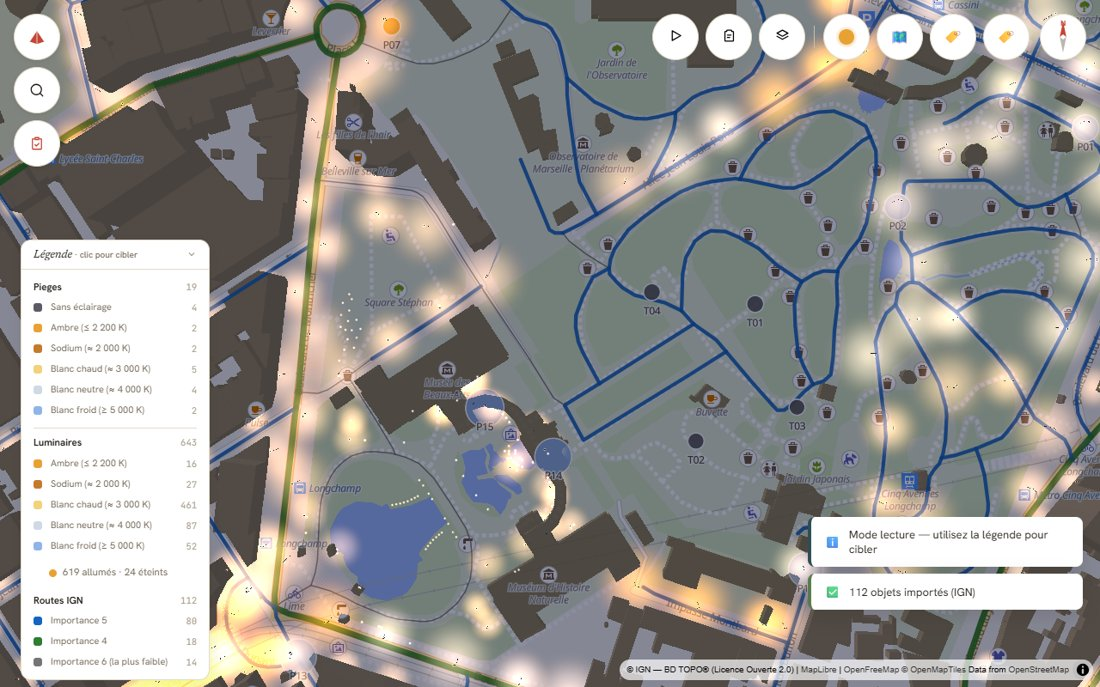
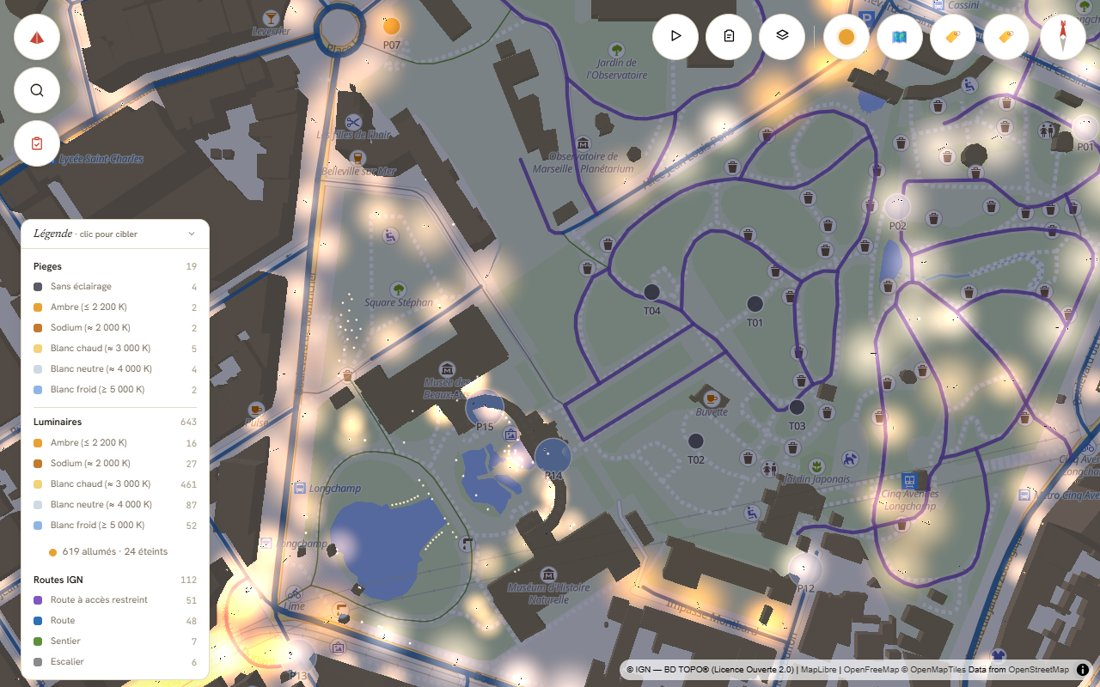
docs(atlas): types de voie et trafic dans la doc, le journal 1.16.1 et la vitrine

diff --git a/published/w/atlas/index.html b/published/w/atlas/index.html
@@ -224,15 +224,15 @@ section { margin: 0 0 3rem; }
       <div class="dit">
         <p class="role">Charger</p>
         <h3>Les routes, bâtiments et eau de l’IGN, dans la zone visible</h3>
-        <p>Le bouton IGN du panneau Couches importe, dans la zone que l’on regarde, les données de la BD TOPO et d’Admin Express : routes, bâtiments, cours d’eau, plans d’eau, végétation, voies ferrées, repères routiers, équipements, communes, départements. Atlas compte d’abord les objets (« 112 objets, durée attendue : environ 1 s »), refuse une zone trop vaste plutôt que de bloquer la carte, importe page par page avec une barre d’avancement, et laisse annuler puis reprendre là où l’import s’était arrêté. La couche arrive avec un style lisible (les routes colorées par importance, les bâtiments extrudés par leur hauteur), sa provenance, sa licence et la mention de source sur la carte.</p>
-        <p class="pourquoi">Les routes importées portent leur sens de circulation et leur nombre de voies : un itinéraire tracé dessus évite les sens uniques, sans rien saisir à la main.</p>
-        <p class="exemple"><b>Dans l’exemple</b> les 112 tronçons de routes autour du Palais Longchamp, importés en une seconde, avec leur sens de circulation.</p>
-        <ul class="utilise"><li>Import IGN</li><li>Estimation avant import</li><li>Annuler et reprendre</li><li>Provenance et licence</li><li>Sens de circulation</li></ul>
+        <p>Le bouton IGN du panneau Couches importe, dans la zone que l’on regarde, les données de la BD TOPO et d’Admin Express : routes, bâtiments, cours d’eau, plans d’eau, végétation, voies ferrées, repères routiers, équipements, communes, départements. Atlas compte d’abord les objets (« 112 objets, durée attendue : environ 1 s »), refuse une zone trop vaste plutôt que de bloquer la carte, importe page par page avec une barre d’avancement, et laisse annuler puis reprendre là où l’import s’était arrêté. La couche arrive avec un style lisible (les routes colorées par type de voie — route, route à accès restreint, chemin, sentier, escalier, piste cyclable —, les bâtiments extrudés par leur hauteur), sa provenance, sa licence et la mention de source sur la carte.</p>
+        <p class="pourquoi">Les routes importées portent leur sens de circulation, leur nombre de voies et leur type de voie : une allée de parc ne se confond pas avec une rue, et un itinéraire tracé dessus évite les sens uniques, sans rien saisir à la main.</p>
+        <p class="exemple"><b>Dans l’exemple</b> les routes de la BD TOPO autour du Palais Longchamp : 48 tronçons de rue, 51 allées du parc à accès restreint, 7 sentiers, 6 escaliers, chacun sa couleur.</p>
+        <ul class="utilise"><li>Import IGN</li><li>Type de voie</li><li>Estimation avant import</li><li>Annuler et reprendre</li><li>Provenance et licence</li><li>Sens de circulation</li></ul>
       </div>
       <div class="montre">
         <figure class="large">
-          <img src="cas-ign.jpg" alt="Les routes de la BD TOPO autour du Palais Longchamp, importées dans la zone visible et colorées par importance ; la mention de source figure en bas à droite." loading="lazy">
-          <figcaption>Les routes de la BD TOPO autour du Palais Longchamp, importées dans la zone visible et colorées par importance ; la mention de source figure en bas à droite.</figcaption>
+          <img src="cas-ign.jpg" alt="Les routes de la BD TOPO autour du Palais Longchamp, par type de voie : les rues en bleu, les allées du parc à accès restreint en violet, les sentiers en vert, les escaliers en gris ; la mention de source figure en bas à droite." loading="lazy">
+          <figcaption>Les routes de la BD TOPO autour du Palais Longchamp, par type de voie : les rues en bleu, les allées du parc à accès restreint en violet, les sentiers en vert, les escaliers en gris ; la mention de source figure en bas à droite.</figcaption>
         </figure>
       </div>
     </article>
@@ -312,15 +312,15 @@ section { margin: 0 0 3rem; }
       <div class="dit">
         <p class="role">Représenter</p>
         <h3>Du trafic sur vos routes, pour une maquette vivante</h3>
-        <p>Une fois les routes importées — celles de l’IGN avec leur sens de circulation et leur nombre de voies, ou celles d’OpenStreetMap —, l’entrée « Animer le trafic (simulé) » de la palette fait rouler des véhicules dessus : des voitures et des poids lourds qui respectent les sens uniques, se rangent sur la bonne voie avant un virage, font la queue aux carrefours et cèdent le passage à l’anneau d’un giratoire. La densité se règle (véhicules par km), la même simulation se rejoue à l’identique, et un clic l’arrête.</p>
+        <p>Une fois les routes importées — celles de l’IGN avec leur sens de circulation, leur nombre de voies et leur type de voie, ou celles d’OpenStreetMap —, « Animer le trafic » (dans « Vue &amp; rendu », ou par la palette) fait rouler des véhicules dessus : des voitures et des poids lourds qui respectent les sens uniques, se rangent sur la bonne voie avant un virage, font la queue aux carrefours et cèdent le passage à l’anneau d’un giratoire. Seules les routes ouvertes à la circulation roulent : les allées d’un parc, les chemins, les sentiers, les escaliers et les pistes cyclables restent vides, et Atlas dit ce qu’il a écarté. On règle la couche, la densité (véhicules par km) et l’accès restreint ; la même simulation se rejoue à l’identique, et un clic l’arrête.</p>
         <p class="pourquoi">Une maquette qui bouge se lit mieux qu’une maquette figée, sans refaire une simulation dans un autre outil. Atlas dit qu’elle est simulée : la densité, les destinations et les feux sont des hypothèses, jamais une mesure du trafic réel.</p>
-        <p class="exemple"><b>Dans l’exemple</b> les routes de la BD TOPO autour du Palais Longchamp : 115 tronçons, 66 carrefours, 2 giratoires, une cinquantaine de véhicules en temps réel.</p>
-        <ul class="utilise"><li>Trafic simulé</li><li>Sens uniques</li><li>Voies par sens</li><li>Giratoires</li><li>Routes IGN ou OSM</li></ul>
+        <p class="exemple"><b>Dans l’exemple</b> les routes de la BD TOPO autour du Palais Longchamp : 48 tronçons de rue roulés, 64 écartés (50 allées à accès restreint, 7 sentiers, 6 escaliers), une quarantaine de véhicules en temps réel.</p>
+        <ul class="utilise"><li>Trafic simulé</li><li>Type de voie</li><li>Sens uniques</li><li>Voies par sens</li><li>Giratoires</li><li>Routes IGN ou OSM</li></ul>
       </div>
       <div class="montre">
         <figure class="large">
-          <img src="cas-trafic.jpg" alt="Des véhicules (bleu : voitures, orange : poids lourds) sur les routes importées de l’IGN autour du Palais Longchamp. Trafic simulé." loading="lazy">
-          <figcaption>Des véhicules (bleu : voitures, orange : poids lourds) sur les routes importées de l’IGN autour du Palais Longchamp. Trafic simulé.</figcaption>
+          <img src="cas-trafic.jpg" alt="Des véhicules (blanc : voitures, orange : poids lourds) sur les rues importées de l’IGN autour du Palais Longchamp ; les allées du parc, à droite, restent vides. Trafic simulé." loading="lazy">
+          <figcaption>Des véhicules (blanc : voitures, orange : poids lourds) sur les rues importées de l’IGN autour du Palais Longchamp ; les allées du parc, à droite, restent vides. Trafic simulé.</figcaption>
         </figure>
       </div>
     </article>
@@ -647,6 +647,7 @@ section { margin: 0 0 3rem; }
   <section>
     <h2>Journal</h2>
     <div class="journal">
+      <div><b>v1.16.1</b><p>Les routes importées de l’IGN se distinguent par type de voie : routes, routes à accès restreint (allées d’un parc, voies privées), chemins, sentiers, escaliers, pistes cyclables, voies ferrées — une couleur chacun dans la légende, au lieu d’un seul bleu pour tout. Le trafic simulé ne roule plus que sur les routes ouvertes à la circulation : les allées de parc, les sentiers, les escaliers et les pistes cyclables restent vides, et Atlas dit ce qu’il a écarté. Il se règle (couche, densité, routes à accès restreint) et s’anime dans « Vue &amp; rendu ».</p></div>
       <div><b>v1.16.0</b><p>Les routes importées de l’IGN ou d’OpenStreetMap peuvent s’animer : une entrée de la palette, « Animer le trafic (simulé) », fait rouler des voitures et des poids lourds qui suivent les sens uniques, s’arrêtent dans les files et passent les carrefours et les giratoires. C’est une maquette de trafic, pas une mesure : la densité, les destinations et les feux sont des hypothèses, et Atlas le dit.</p></div>
       <div><b>v1.15.0</b><p>Un bouton IGN, à côté d’OSM dans le panneau Couches, importe les données de l’IGN de la zone visible : routes (avec leur sens de circulation et leur nombre de voies), bâtiments extrudés par leur hauteur, cours d’eau, plans d’eau, végétation, voies ferrées, repères routiers, équipements, communes et départements. L’import annonce d’abord combien d’objets il va lire, avance page par page, s’annule et se reprend là où il s’était arrêté ; la couche arrive avec sa provenance, sa licence et la mention de source sur la carte. Les routes importées servent tout de suite aux itinéraires qui respectent les sens uniques.</p></div>
       <div><b>v1.14.2</b><p>Les routes importées d’OpenStreetMap portent leurs sens uniques : un itinéraire tracé dessus ne remonte plus une rue à sens unique, ni un rond-point à contresens (le sens de la BD TOPO de l’IGN passe avant celui d’OpenStreetMap quand les deux existent). Pour les applications qui affichent la carte : la sortie du pointeur est annoncée, « automatique » rend la main à la détection du réseau au lieu de garder un hors ligne forcé, et la mention de source donnée par l’application s’affiche en bas de la carte.</p></div>

diff --git a/projects/Atlas/docs/TRAFIC.md b/projects/Atlas/docs/TRAFIC.md
@@ -7,14 +7,16 @@ Atlas peut faire rouler des véhicules sur les routes d'une couche : une maquett
 ## Utilisation
 
 1. Importer des routes : bouton **IGN** du panneau Couches (jeu « Routes », BD TOPO) ou import **OSM** (« Voirie »), ou toute couche de lignes qui porte ces attributs.
-2. Palette de commandes (`Ctrl/⌘ K`) : **Animer le trafic (simulé) sur « <couche> »**. La même entrée devient **Arrêter le trafic simulé**.
-3. Par l'API : `A.traficDemarrer(layerId?, { densite, vitesse, graine })`, `A.traficArreter()`, `A.traficEtat()`.
+2. Module **Vue & rendu**, section **Trafic simulé** : la couche de routes, la **densité** (véhicules par km), les **routes à accès restreint** (désactivé par défaut), puis **▶ Animer le trafic** ; le bouton devient **■ Arrêter le trafic**, et la section dit combien de véhicules roulent sur combien de tronçons, et ce qui a été écarté.
+3. Palette de commandes (`Ctrl/⌘ K`) : **Animer le trafic (simulé) sur « <couche> »** (aussi en lecture, où le module n'est pas ouvert), puis **Arrêter le trafic simulé**.
+4. Par l'API : `A.traficDemarrer(layerId?, { densite, vitesse, graine, acces })`, `A.traficBasculer()`, `A.traficReglage(cle, valeur)`, `A.traficArreter()`, `A.traficEtat()`.
 
 | Réglage | Sens | Défaut |
 |---|---|---|
 | `densite` | véhicules par km de route | 8 (de 10 à 600 véhicules au total) |
 | `vitesse` | pas du moteur par image ; 1 = temps réel | 1 (1 à 8) |
 | `graine` | l'état de départ ; la même graine redonne la même simulation | 1 |
+| `acces` | `libre` : routes ouvertes à la circulation ; `tous` : y ajoute les routes à accès restreint (voies privées, desserte) | `libre` |
 
 Sans identifiant de couche, Atlas prend la première couche de lignes visible qui ressemble à des routes (`sens_de_circulation` ou `highway`). Un message dit « Trafic simulé … ; débits, destinations et feux sont des hypothèses ». Le chargement est **à la demande** (`lib/trafic-couche.js`, puis `lib/trafic/`) : sans trafic demandé, rien n'est téléchargé.
 
@@ -23,7 +25,8 @@ Sans identifiant de couche, Atlas prend la première couche de lignes visible qu
 | | |
 |---|---|
 | **Lu dans les données** | la géométrie des routes ; le sens (`sens_de_circulation` de la BD TOPO, sinon `oneway`, `junction=roundabout`, `highway=motorway` d'OpenStreetMap) ; le nombre de voies (`nombre_de_voies`, BD TOPO) ; l'importance (BD TOPO, sinon la classe OSM : motorway 1, primary 2, secondary 3, tertiary 4, residential et unclassified 5, service et living_street 6) ; l'état et l'accès (`Projet`, `Physiquement impossible` écartés) |
-| **Écarté** | sentiers, escaliers, pistes cyclables, `footway`, `path`, `cycleway`, `steps`, `pedestrian`, `track`, `construction` |
+| **Distingué, puis écarté** | ce qui n'est pas une **route ouverte à la circulation** (`lib/modes-voie.js`) : les **chemins** et les **sentiers**, les **escaliers**, les **pistes cyclables**, les **voies ferrées**, les routes **à accès restreint** (allée d'un parc, voie privée, desserte réservée aux ayants droit : BD TOPO `acces_vehicule_leger`, OSM `access`, `motor_vehicle`, `vehicle`), les routes **physiquement impossibles** et les tronçons **en projet**. Chaque écart a son motif, dit dans la section « Trafic simulé » (« 64 tronçons écartés : 50 à accès restreint, 7 sentiers, 6 escaliers, 1 à accès impossible ») |
+| **Pris pour une route** | une couche dont aucun tronçon ne dit ce qu'il est (ni `nature`, ni `highway`) : des lignes tracées à la main ; dès qu'un tronçon se déclare, ceux qui ne le font pas sont écartés (« non classés ») |
 | **Supposé** | **une densité** de véhicules par km, la même partout ; les destinations, tirées au hasard ; **aucun feu** (la BD TOPO n'en porte pas : la couche ne les active pas, même si le moteur sait en simuler à titre d'hypothèse) ; 10 % de poids lourds |
 
 Le réseau lu est celui de la couche **entière, filtres de la couche compris** (pas seulement ce qui est visible à l'écran), et le moteur ne fait rouler les véhicules que sur la **plus grande partie connexe** : des routes coupées par l'emprise d'un import, isolées du reste, restent vides.
@@ -56,7 +59,13 @@ Aucun saut de position, état reproductible à graine égale. Coût du moteur : 
 - **Écart de capacité** : le retard d'un giratoire reste 2 à 4 fois celui d'un modèle de capacité de référence ; le giratoire à 6 branches se dégrade vite (retard moyen 16,6 s à 300 véh/h par entrée).
 - **Contacts résiduels** à forte densité (143 sur 20 véh/km pour le réseau de 34 km) : le moteur n'est pas un outil de dimensionnement.
 - **Un seul trafic à la fois**, sur le fil principal (non vérifié au-delà de 600 véhicules ni sur plusieurs dizaines de km), sans piétons, cyclistes, transports en commun ni stationnement.
-- Les véhicules sont dessinés comme des points (bleu : voiture, orange : poids lourd) ; le cap est calculé mais pas encore dessiné.
+- Les véhicules sont dessinés comme des points (blanc : voiture, orange : poids lourd) ; le cap est calculé mais pas encore dessiné.
+
+## Distinguer les routes, les chemins, les pistes cyclables, les voies ferrées
+
+`lib/modes-voie.js` donne à chaque tronçon un **mode** (route, chemin, sentier, escalier, piste cyclable, voie ferrée) et un **accès** pour un véhicule léger, d'après la BD TOPO (`nature`, `acces_vehicule_leger`) ou OpenStreetMap (`highway`, `railway`, `access`, `motor_vehicle`, `vehicle`). L'import de l'IGN en tire l'attribut **`type_de_voie`** (route, route à accès restreint, chemin, sentier, escalier, piste cyclable, voie ferrée), une couleur chacun dans la légende ; le trafic routier ne prend que les routes ouvertes.
+
+**Pour d'autres véhicules plus tard (trains, vélos, piétons)** : le mode `ferre` est reconnu dès maintenant (BD TOPO : LGV, voie ferrée principale, tramway, métro ; OSM : `railway=*`) et jamais confié au trafic routier. Un autre moteur lirait **son** mode et ses propres règles : sur les voies ferrées, des cantons et une signalisation à la place des carrefours et des priorités ; pour les vélos et les piétons, les pistes cyclables, les sentiers et les escaliers. Le moteur actuel est paramétré par classes de véhicules (`vl`, `pl`) et par règles d'accès : il en est le point de départ, pas la fin. Rien de ferroviaire n'est construit.
 
 ## Le réseau orienté : ce qui est branché, ce qui reste pertinent
 
@@ -64,7 +73,8 @@ Aucun saut de position, état reproductible à graine égale. Coût du moteur : 
 |---|---|---|---|
 | Client WFS de la BD TOPO | `lib/reseau/wfs-bdtopo.js` | **branché** (import IGN) | en service |
 | Sens uniques BD TOPO et OSM, plus court chemin orienté | `lib/itineraire.js` | **branché** (« Tracer sur un réseau », case « Respecter les sens de circulation ») | en service |
-| Trafic sur les routes d'une couche | `lib/trafic-couche.js`, `lib/trafic/` | **branché** (palette, `A.traficDemarrer`) | en service |
+| Distinction route / chemin / piste cyclable / voie ferrée | `lib/modes-voie.js` | **branché** (import IGN, trafic) | en service |
+| Trafic sur les routes d'une couche | `lib/trafic-couche.js`, `lib/trafic/` | **branché** (« Vue & rendu », palette, `A.traficDemarrer`) | en service |
 | Graphe BD TOPO exact (extrémités à 1e-7 degré, attributs) | `lib/reseau/graphe-routier.js` | non branché | **à garder** : base de la suite (T2), plus stricte que le réseau d'itinéraire |
 | Calage d'une trace sur le réseau, plus court chemin | `lib/reseau/calage.js` | non branché | **pertinent** pour caler une trace GPS de terrain sur les routes ; à brancher quand une trace est importée |
 | Repères routiers (PR) : localiser, trouver le plus proche | `lib/reseau/reperes.js` | non branché | **pertinent** pour l'inventaire de voirie ; à brancher avec un usage terrain |
@@ -79,7 +89,9 @@ Les modules non branchés sont publiés avec le reste de `lib/reseau/` mais jama
 |---|---|---|
 | T0 | le moteur dans Atlas, versionné, avec ses 36 tests | **fait** (`lib/trafic/`, `tests/trafic-*.test.js`) |
 | T1 | un trafic ambiant sur les routes d'une couche, à la demande | **fait** (`lib/trafic-couche.js`) |
+| — | distinguer les types de voie et ne rouler que sur les routes ouvertes ; section de réglage dans « Vue & rendu » | **fait** (1.16.1) |
 | T2 | véhicules orientés (cap dessiné) et en 3D à partir du catalogue d'objets ; calcul dans un worker | à faire |
+| T5 | d'autres modes : trains (cantons, signalisation), vélos, piétons | à décider |
 | T3 | feux : un plan par carrefour désigné, **déclaré comme hypothèse** à l'écran | à faire |
 | T4 | règles de circulation (arrêtés) et « et si », après calibrage sur des mesures | à décider |
 

diff --git a/projects/Atlas/CLAUDE.md b/projects/Atlas/CLAUDE.md
@@ -34,7 +34,7 @@ Familles de `lib/` (état du 02/10/2026) :
 | Éclairage et soleil | `eclairage-profil`, `eclairage-rendu`, `luminaires-three`, `facades-eclairees`, `nuit-rendu`, `qualite-eclairage`, `soleil`, `arc-solaire`, `horloge-scene` |
 | Hôte, interface, import | `hote`, `hote-ui`, `habillage-carte`, `feuille-mobile`, `edge-scroll`, `layer-order`, `ouvrir-fichier`, `osm-requete`, `vue-import`, `sources-import`, `import-lots`, `import-ign`, `import-ign-session`, `import-ign-couche`, `vue-import-ign`, `provenance-couche`, `basemap-layers`, `decouverte`, `graine`, `html` |
 | Composant carte BI (sous-dossier `lib/bi/`) | `acces-carte` (point d'accès à la carte, dans `lib/`) ; dans `lib/bi/` : `bi-runtime`, `pont`, `liaison`, `montage`, `client`, `atlas-bi-element`, `agregats`, `echelles`, `legende`, `lecture-temps`, `fond`, `fond-plan`, `clavier`, `clavier-runtime`, `repli`, `icones-etats`, `admin*`, `choroplethe`, `donnees/` |
-| Itinéraire et réseau | `itineraire`, `cap-position`, `tournee` (tracé sur un réseau, sens uniques BD TOPO et OSM, plus court chemin, cap du point bleu, tournée d'un contexte) ; dans `lib/reseau/` (bibliothèques BD TOPO, pures, seul `wfs-bdtopo` est branché, à l'import IGN) : `wfs-bdtopo`, `graphe-routier`, `calage`, `confiance`, `confiance-modele`, `filiation`, `reperes`, `geo`, `itineraire-geoplateforme`, `mesures-trace` |
+| Itinéraire et réseau | `modes-voie` (distingue route, chemin, sentier, escalier, piste cyclable et voie ferrée, et l'accès d'un véhicule : le trafic, l'import IGN et la suite en dépendent), `itineraire`, `cap-position`, `tournee` (tracé sur un réseau, sens uniques BD TOPO et OSM, plus court chemin, cap du point bleu, tournée d'un contexte) ; dans `lib/reseau/` (bibliothèques BD TOPO, pures, seul `wfs-bdtopo` est branché, à l'import IGN) : `wfs-bdtopo`, `graphe-routier`, `calage`, `confiance`, `confiance-modele`, `filiation`, `reperes`, `geo`, `itineraire-geoplateforme`, `mesures-trace` |
 | Trafic simulé (sous-dossier `lib/trafic/`) | `trafic-couche` (le trafic sur les routes d'une couche : adaptation des tronçons, comptes, dessin des véhicules ; chargé à la demande par `A.traficDemarrer`) ; dans `lib/trafic/` : `index` (le moteur sous un seul nom), `trafic` (véhicules, files, priorités, voies), `carrefour` (nœuds et conflits), `reseau` (tronçons vers carrefours), `feux` (feux hypothétiques, non utilisés par la couche) ; voir `docs/TRAFIC.md` |
 | Charte graphique (sous-dossier `lib/charte/`) | `schema`, `couleurs`, `defauts`, `derivation`, `heritage`, `registre`, `resolution`, `verification`, `compat` |
 | Composant BI, compléments (sous-dossier `lib/bi/`) | `client-hote`, `style-polygone`, `theme-charte`, `voile`, `admin`, `admin-runtime`, `admin-sources`, `admin-referentiel` (`client-hote` est GÉNÉRÉ par `tools/generer-client-hote.mjs` : ne pas l'éditer) |

diff --git a/projects/Atlas/CHANGELOG.md b/projects/Atlas/CHANGELOG.md
@@ -13,6 +13,12 @@ Adresse publique : `https://nic01asfr.github.io/Widgets-Grist/atlas/` (elle suit
 
 Une nouvelle empreinte du client s'accompagne d'une nouvelle `VERSION_CLIENT`, annoncée sur le fil des hôtes **avant** publication.
 
+## 1.16.1 — distinguer les routes, les chemins, les pistes cyclables
+
+- **Ajouté** : `lib/modes-voie.js` distingue route, route à accès restreint, chemin, sentier, escalier, piste cyclable et voie ferrée (BD TOPO et OpenStreetMap). L'import des routes de l'IGN porte un attribut dérivé **`type_de_voie`** et colore par type de voie (au lieu de l'importance, qui reste la largeur).
+- **Trafic** : ne roule plus que sur les routes ouvertes à la circulation (allées de parc, chemins, sentiers, escaliers, pistes cyclables, voies ferrées, accès restreint ou impossible, projets sont écartés, chacun pour son motif, dit à l'écran) ; l'option `acces: 'tous'` rend les routes à accès restreint. Section **Trafic simulé** du module « Vue & rendu » (couche, densité, accès restreint, animer ou arrêter) ; véhicules dessinés en blanc (voitures) et orange (poids lourds).
+- **Composant BI** : inchangé (contrat 0.3, même client).
+
 ## 1.16.0 — un trafic simulé sur les routes d'une couche
 
 - **Ajouté** : `A.traficDemarrer(layerId?, { densite, vitesse, graine })`, `A.traficArreter()`, `A.traficEtat()` et l'entrée de palette « Animer le trafic (simulé) ». Des véhicules roulent sur les routes d'une couche de lignes (BD TOPO importée, routes OSM) : sens uniques, voies par sens, carrefours, giratoires, files. **Simulation, pas mesure** : densité, destinations et feux sont des hypothèses. Documentation : `docs/TRAFIC.md`.

diff --git a/projects/Atlas/docs/IMPORT-IGN.md b/projects/Atlas/docs/IMPORT-IGN.md
@@ -39,7 +39,7 @@ Chaque couche et chaque attribut ont été relevés par requête réelle le 10/1
 
 | Jeu | Couche du service | Forme | Attributs principaux | Style par défaut |
 |---|---|---|---|---|
-| Routes | `BDTOPO_V3:troncon_de_route` | ligne | `importance`, `nature`, `sens_de_circulation`, `nombre_de_voies`, `largeur_de_chaussee`, noms, `cpx_numero` | couleur par importance (6 classes), largeur graduée (inversée) |
+| Routes | `BDTOPO_V3:troncon_de_route` | ligne | `importance`, `nature`, `sens_de_circulation`, `nombre_de_voies`, `largeur_de_chaussee`, noms, `cpx_numero`, et **`type_de_voie`** (dérivé) | couleur par **type de voie** (route, route à accès restreint, chemin, sentier, escalier, piste cyclable, voie ferrée, autre), largeur graduée par importance (inversée) |
 | Bâtiments | `BDTOPO_V3:batiment` | surface | `hauteur`, `nombre_d_etages`, `usage_1`, `materiaux_*`, `identifiants_rnb` | volumes extrudés par `hauteur` |
 | Cours d'eau | `BDTOPO_V3:cours_d_eau` | ligne | `toponyme`, `importance`, `code_hydrographique` | bleu, nom en étiquette |
 | Plans d'eau | `BDTOPO_V3:plan_d_eau` | surface | `nature`, `toponyme`, `importance` | à plat, nom en étiquette |
